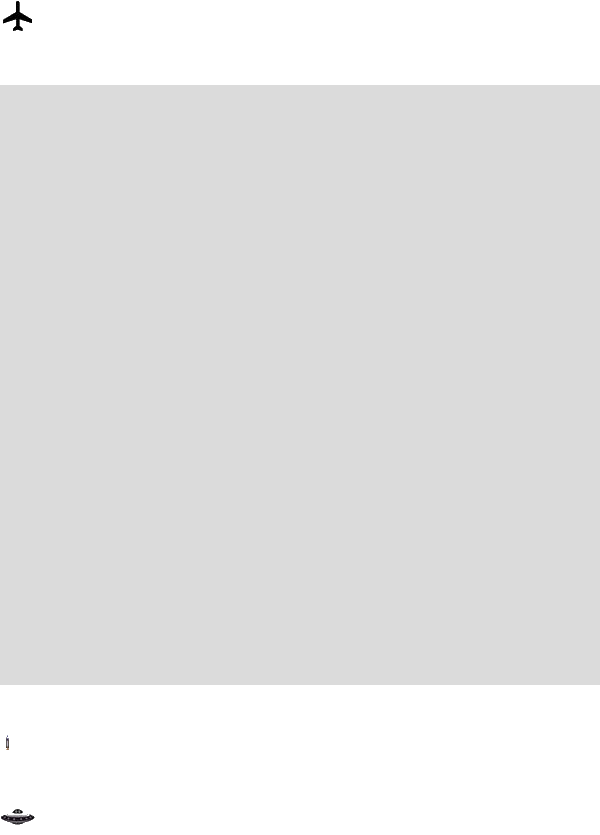
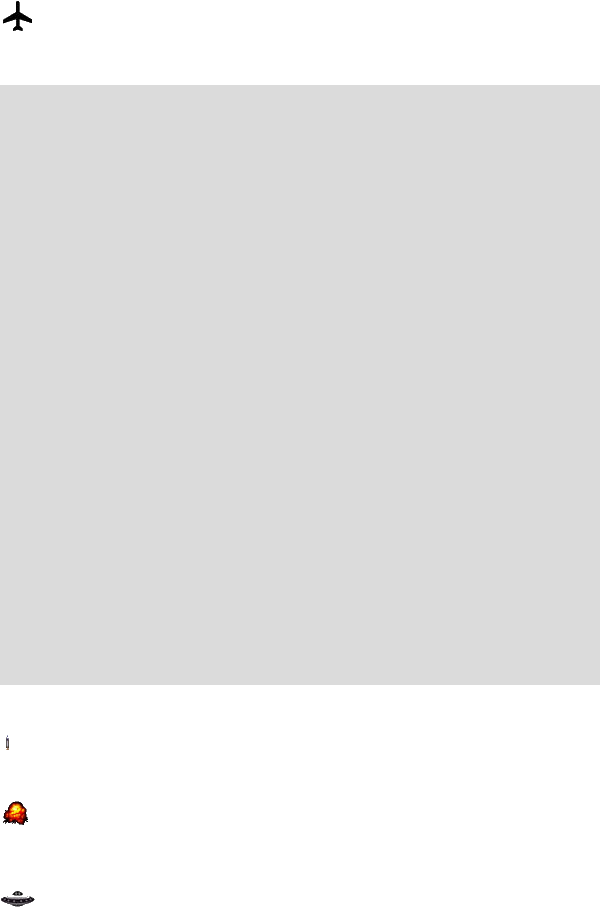
with blast

diff --git a/src/Games/GamesFoundation/Game01-3-WithAlienAttach.html b/src/Games/GamesFoundation/Game01-3-WithAlienAttach.html
@@ -42,13 +42,19 @@
 			#spaceship
 			{
 				background: url(images/g-01-3-with-alien-attack.png) no-repeat top left;
-				background-position: 0 -800px; 
+				background-position: 0 -882px; 
 				width: 35px; 
 				height: 35px;
 				top: 0px;
 				left: 282.5px;
 				z-index: 1;
 				position: absolute;
+				opacity: 1;
+				
+				/*Transition*/
+				-webkit-transition: opacity  0.1s ease-out 0.3s;
+				-moz-transition: opacity  0.1s ease-out 0.3s;
+				transition: opacity  0.1s ease-out 0.3s;
 			}
 			
 			#bullet
@@ -61,11 +67,41 @@
 				left: 292.5px;
 				z-index: 1;
 				position: absolute;
+				opacity: 0;
 				
 				/*Transition*/
-				-webkit-transition: top 0.5s ease-out 0s;
-				-moz-transition: top 0.5s ease-out 0s;
-				transition: top 0.5s ease-out 0s;
+				-webkit-transition: top  0.3s ease-out 0.3s;
+				-moz-transition: top  0.3s ease-out 0.3s;
+				transition: top  0.3s ease-out 0.3s;
+				-webkit-transition: opacity  0.3s ease-out 0s;
+				-moz-transition: opacity  0.3s ease-out 0s;
+				transition: opacity  0.3s ease-out 0s;
+			}
+			
+			#explosion
+			{
+				background: url(images/g-01-3-with-alien-attack.png) no-repeat top left;
+				background-position: 0 -800px; 
+				width: 32px; 
+				height: 32px;
+				top: 0px;
+				left: 282.5px;
+				z-index: 2;
+				position: absolute;
+				opacity: 0;
+				
+				/*Transition*/
+				-webkit-transition: top  0.3s ease-out 0.3s;
+				-moz-transition: top  0.3s ease-out 0.3s;
+				transition: top  0.3s ease-out 0.3s;
+				-webkit-transition: opacity  0.3s ease-out 0s;
+				-moz-transition: opacity  0.3s ease-out 0s;
+				transition: opacity  0.3s ease-out 0s;
+			}
+			
+			.blast
+			{
+				opacity: 0 !important;
 			}
 		</style>
 	</head>
@@ -75,24 +111,190 @@
 			<div id="plane"></div>
 			<div id="bullet"></div>
 			<div id="spaceship"></div>
+			<div id="explosion"></div>
+		</div>
+		
+		<div>
+			<div id="output">I am thinking of a number between 0 and 99.</div>
+			<input id="inputX" type="text" placeholder="X..." autofocus>
+			<input id="inputY" type="text" placeholder="Y...">
+			<button id="fire">fire</button>
+			<button id="restart">restart</button>
 		</div>
 		
 		<script type="text/javascript">
 			// variables
-			var mysteryNumber = Math.floor(Math.random() * 100),
+			var spaceshipX = Math.floor(Math.random() * 565), 
+				spaceshipY = Math.floor(Math.random() * 300),
+				playersXGuess = 0,
+				playersYGuess = 0,
+				allowedAttempts = 10,
+				usedAttempts = 0,
+				defLeft = 282.5,
+				spaceship = document.querySelector('#spaceship'),
 				plane = document.querySelector('#plane'),
-				bullet = document.querySelector('#bullet');
+				bullet = document.querySelector('#bullet'),
+				explosion = document.querySelector('#explosion'),
+				inputX = document.querySelector('#inputX'),
+				inputY = document.querySelector('#inputY'),
+				output = document.querySelector('#output'),
+				fireBtn = document.querySelector('#fire'),
+				restartBtn = document.querySelector('#restart'),
+				msg = '<span>{0}</span><span>Attempts made: {1} | Attempts left: {2}</span>';
 			
-			// event binding
-			window.addEventListener('keydown', keydownHandler, false);
-
-			function keydownHandler(e) {
-				if(e.keyCode === 32) {
-					bullet.style.top = '0px';
-				} else if (e.keyCode === 37) {
-					var currLeft = 
-				} else if (e.keyCode === 39) {
+			renderSpaceship();
+			
+			// button cursor style
+			fireBtn.style.cursor = "pointer";
+			restartBtn.style.cursor = "pointer";
+			
+			// window enter key event binding
+			bindWindowKeyDownEvent();
+			
+			// guess button event binding
+			fireBtn.addEventListener('click', function(e) {
+				validateAndPlay();
+			}, false);
+			
+			function bindWindowKeyDownEvent() {
+				// window enter key event binding
+				window.addEventListener('keydown', enterKeyAxn, false);
+			}
+			
+			// restart button event binding
+			restart.addEventListener('click', function(e) {
+				var disabled = fireBtn.getAttribute('disabled'),
+					proceed = true;
+				
+				if(disabled !== 'disabled') {
+					proceed = confirm('Are you SURE !!!');
 				}
+				
+				if (proceed) {
+					startNewGame();
+				}
+			}, false);
+			
+			function startNewGame() {
+				usedAttempts = 0;
+				output.innerText = "I am thinking of a number between 0 and 99.";
+				inputX.value = "";
+				inputY.value = "";
+				playersXGuess = 0;
+				playersYGuess = 0;
+				fireBtn.removeAttribute('disabled');
+				bindWindowKeyDownEvent();
+				renderSpaceship();
+				renderPlane(true);
+			}
+			
+			function enterKeyAxn(e) {
+				if (e.keyCode === 13) {
+					validateAndPlay();
+				}
+			}
+			
+			function renderSpaceship(x, y) {
+				if (x && y) {
+					// random position
+					spaceshipX = x;
+					spaceshipY = y;
+				}
+				// setup spaceship position
+				spaceship.style.left = spaceshipX + 'px';
+				spaceship.style.top = spaceshipY + 'px';
+			}
+			
+			function renderPlane(toDef) {
+				if (toDef) {
+					// random position
+					playersXGuess = defLeft;
+				}
+				// setup spaceship position
+				plane.style.left = playersXGuess + 'px';
+			}
+			
+			function fireBullet() {
+				explosion.style.opacity = 1;
+				explosion.style.top = playersYGuess + 'px';
+				explosion.style.left = playersXGuess + 'px';
+			}
+			
+			function validateAndPlay() {
+				playersXGuess = parseInt(inputX.value);
+				playersYGuess = parseInt(inputY.value);
+				if (isNaN(playersXGuess) || isNaN(playersYGuess)) {
+					alert('Please enter only numeric values');
+				} else {
+					playGame();
+				}
+			}
+				
+			function playGame() {
+				usedAttempts++;
+				
+				if (usedAttempts === allowedAttempts || hitCheck()) { 
+					endGame();
+				} else {
+				
+					var text = "";
+				
+					if (playersXGuess < spaceshipX) {
+						text = 'Too left';
+					} else if (playersXGuess > spaceshipX) {
+						text = 'Too right';
+					} 
+					
+					if (playersYGuess < spaceshipX) {
+						text += (text ? ' & ' : '') + 'Too high';
+					} else if (playersYGuess > spaceshipX) {
+						text += (text ? ' & ' : '') + 'Too low';
+					}
+					
+					output.innerHTML = stringFormat(msg, text, usedAttempts, (allowedAttempts - usedAttempts));
+				}
+				inputX.select();
+				renderSpaceship();
+				renderPlane();
+				fireBullet();
+			}
+			
+			function hitCheck() {
+				if (playersXGuess >= spaceshipX && playersXGuess <= spaceshipX + 35) {
+					if (playersYGuess >= spaceshipY && playersYGuess <= spaceshipY + 35) {
+						return true;
+					}
+				}
+				
+				return false
+			}
+			
+			function endGame() {
+				var text;
+				
+				if (hitCheck()) {
+					spaceship.className = "blast";
+					text = "<span><p style='font-weight:bold;color:Green;display:inline;'>You got it !!!</p></span><span>With " + (allowedAttempts - usedAttempts) + " of attempts left</span>";
+				} else {
+					text = "<span>You have used all the " + allowedAttempts + " bullets to hit the space ship. </span><span>The current location of space ship is<p style='font-weight:bold;color:Red;display:inline;'> x: " + spaceshipX + " | y: " + spaceshipY + "</p></span>";
+				}
+				
+				output.innerHTML = text;
+				fireBtn.setAttribute('disabled', 'disabled');
+				window.removeEventListener('keydown', enterKeyAxn, false);
+			}
+			
+			function stringFormat() {
+				var str = arguments[0];
+			
+				if (arguments.length > 1) {
+					for (var i = 1, j = 0; i < arguments.length; i++, j++) {
+						while (str.indexOf('{' + j + '}') >= 0) {
+							str = str.replace('{' + j + '}', arguments[i]);
+						}
+					}
+				}
+				return str;
 			}
 			
 		</script>
